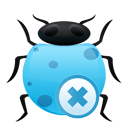
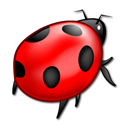
Use another set of colors

diff --git a/src/PrologWorkbench.Theme/Resources/Brushes.xaml b/src/PrologWorkbench.Theme/Resources/Brushes.xaml
@@ -13,13 +13,14 @@
   <SolidColorBrush x:Key="Brush.DarkColor" Color="{StaticResource Color.Brown}"/>
   <SolidColorBrush x:Key="Brush.LightColor" Color="{StaticResource Color.DarkYellow}"/>-->
 
-  <SolidColorBrush x:Key="Brush.Foreground" Color="{StaticResource Color.Foreground}" />
-  <SolidColorBrush x:Key="Brush.Foreground.Inverted" Color="{StaticResource Color.Brown}" />
-  <SolidColorBrush x:Key="Brush.Background" Color="{StaticResource Color.Background}" />
-  <SolidColorBrush x:Key="Brush.Highlight" Color="{StaticResource Color.Blue}" />
-  <SolidColorBrush x:Key="Brush.Content" Color="{StaticResource Color.Yellow}" />
-  <SolidColorBrush x:Key="Brush.DarkColor" Color="{StaticResource Color.Brown}"/>
-  <SolidColorBrush x:Key="Brush.LightColor" Color="{StaticResource Color.DarkYellow}"/>
+  <SolidColorBrush x:Key="Brush.Foreground" Color="{DynamicResource Color.Foreground}" />
+  <SolidColorBrush x:Key="Brush.Foreground.Inverted" Color="{DynamicResource Color.Foreground}" />
+  <SolidColorBrush x:Key="Brush.Background" Color="{DynamicResource Color.Background}" />
+  <SolidColorBrush x:Key="Brush.Highlight" Color="{DynamicResource Color.Blue}" />
+  <SolidColorBrush x:Key="Brush.Content" Color="{DynamicResource Color.Yellow}" />
+  <SolidColorBrush x:Key="Brush.Content.Text" Color="{DynamicResource Color.White}" />
+  <SolidColorBrush x:Key="Brush.DarkColor" Color="{DynamicResource Color.DarkYellow}"/>
+  <SolidColorBrush x:Key="Brush.LightColor" Color="{DynamicResource Color.Brown}"/>
 
 
 </ResourceDictionary>

diff --git a/src/PrologWorkbench.Core/Views/ProgramView.xaml b/src/PrologWorkbench.Core/Views/ProgramView.xaml
@@ -39,13 +39,13 @@
                 </StackPanel>
             </Border>
             <TreeView x:Name="_clauses" BorderThickness="0" Margin="5" 
-                      Background="{Binding Parent.Background}" ItemsSource="{Binding Program.Procedures}">
+                      Background="{Binding Parent.Background}" ItemsSource="{Binding Program.Procedures}" Foreground="{DynamicResource Brush.Foreground}">
                 <TreeView.ItemTemplate>
                     <HierarchicalDataTemplate ItemsSource="{Binding Clauses}">
-                        <TextBlock Text="{Binding}" FontSize="16" />
+                        <TextBlock Text="{Binding}" FontSize="16" Foreground="{DynamicResource Brush.Foreground}" />
                         <HierarchicalDataTemplate.ItemTemplate>
                             <DataTemplate>
-                                <TextBlock Text="{Binding CodeSentence}" FontSize="12" />
+                                <TextBlock Text="{Binding CodeSentence}" FontSize="12" Foreground="{DynamicResource Brush.Foreground}" />
                             </DataTemplate>
                         </HierarchicalDataTemplate.ItemTemplate>
                     </HierarchicalDataTemplate>

diff --git a/src/PrologWorkbench.Theme/Resources/Colors.xaml b/src/PrologWorkbench.Theme/Resources/Colors.xaml
@@ -16,7 +16,7 @@
     <Color x:Key="Color.DarkBrown">#633607</Color>
 	-->
 
-  <!-- Karamelbonbon -->
+  <!-- Karamelbonbon 
     <Color x:Key="Color.Yellow">#FFF6CF</Color>
     <Color x:Key="Color.MidYellow">#F5D471</Color>
     <Color x:Key="Color.DarkYellow">#E3AC3D</Color>
@@ -26,10 +26,23 @@
     <Color x:Key="Color.Blue">#6666CC</Color>
 
     <Color x:Key="Color.Foreground">#FFF6CF</Color>
-    <Color x:Key="Color.Background">#664208</Color>
-  
-  
-  
-    
+    <Color x:Key="Color.Background">#664208</Color> -->
+
+  <Color x:Key="Color.Black">Black</Color>
+  <Color x:Key="Color.White">White</Color>
+  <Color x:Key="Color.Yellow">#FF080000</Color>
+  <Color x:Key="Color.MidYellow">#F5D471</Color>
+  <Color x:Key="Color.DarkYellow">#FF5A77DE</Color>
+  <Color x:Key="Color.Brown">#FF323A80</Color>
+  <Color x:Key="Color.DarkBrown">#664208</Color>
+
+  <Color x:Key="Color.Blue">#FFE94227</Color>
+
+  <Color x:Key="Color.Foreground">White</Color>
+  <Color x:Key="Color.Background">#FF2B2A28</Color>
+
+
+
+
 </ResourceDictionary>
     

diff --git a/src/PrologWorkbench.Theme/Resources/ContentControls.xaml b/src/PrologWorkbench.Theme/Resources/ContentControls.xaml
@@ -50,8 +50,8 @@
 	</Style>
   <Style x:Key="Style.Module.Content" TargetType="{x:Type Control}">
     <Setter Property="Margin" Value="10" />
-    <Setter Property="Background" Value="{StaticResource Brush.Content}" />
-    <Setter Property="Foreground" Value="Black" />
+    <Setter Property="Background" Value="{DynamicResource Brush.Content}" />
+    <Setter Property="Foreground" Value="{DynamicResource Brush.Content.Text}" />
     <Setter Property="FontSize" Value="16" />
     <Setter Property="HorizontalContentAlignment" Value="Stretch" />
     <Setter Property="VerticalContentAlignment" Value="Stretch" />
@@ -73,6 +73,7 @@
 		<Setter Property="Height" Value="22" />
 		<!-- Setter Property="FontWeight" Value="Bold" / -->
 		<Setter Property="FontSize" Value="16" />
+		<Setter Property="Foreground" Value="{DynamicResource Brush.Foreground}"/>
 	</Style>
 
 	<!-- TitleBar -->

diff --git a/src/PrologWorkbench.Editor/Views/CommandView.xaml b/src/PrologWorkbench.Editor/Views/CommandView.xaml
@@ -35,10 +35,10 @@
         <DockPanel>
             <Border DockPanel.Dock="Bottom" Style="{DynamicResource Style.Module.ToolBorder}">
             	<StackPanel Style="{DynamicResource Style.Module.ToolBar}">
-                    <Button x:Name="Execute" 
+                    <Button x:Name="Execute"
                             Command="{Binding ExecuteCommand}" 
                             Content="{StaticResource PngExecute}" 
-                            ToolTip="{x:Static strings:Strings.CommandView_Execute}" Margin="0,-1,0,1"/>
+                            ToolTip="{x:Static strings:Strings.CommandView_Execute}" />
                     <Button x:Name="Debug" 
                             Command="{Binding DebugCommand}" 
                             Content="{StaticResource PngDebug}" 

diff --git a/src/PrologWorkbench.Theme/Resources/Buttons.xaml b/src/PrologWorkbench.Theme/Resources/Buttons.xaml
@@ -6,7 +6,7 @@
         <Setter Property="Template">
             <Setter.Value>
                 <ControlTemplate TargetType="{x:Type ToggleButton}">
-					<Border x:Name="border" Margin="2" CornerRadius="48" BorderBrush="Black" BorderThickness="0" >
+					<Border x:Name="border" Margin="2" CornerRadius="48">
 						<Border.Effect >
 							<BlurEffect Radius="0"/>
 						</Border.Effect>
@@ -55,7 +55,7 @@
 		<Setter Property="Template">
 			<Setter.Value>
 				<ControlTemplate TargetType="{x:Type Button}">
-					<Border x:Name="border" Margin="2" CornerRadius="48" BorderBrush="Black" BorderThickness="0" >
+					<Border x:Name="border" Margin="2" CornerRadius="48" >
 						<Border.Effect >
 							<BlurEffect Radius="0"/>
 						</Border.Effect>

diff --git a/src/PrologWorkbench.Core/Views/ModulesView.xaml b/src/PrologWorkbench.Core/Views/ModulesView.xaml
@@ -29,7 +29,7 @@
 			</Setter>
 		</Style>
 		<Style x:Key="RadioButtonStyle" TargetType="{x:Type RadioButton}">
-			<Setter Property="Foreground" Value="Black"/>
+			<Setter Property="Foreground" Value="{DynamicResource Brush.Foreground.Inverted}"/>
 			<Setter Property="Background" Value="{DynamicResource Brush.DarkColor}"/>
 			<Setter Property="BorderThickness" Value="0"/>
 			<Setter Property="FontSize" Value="18" />
